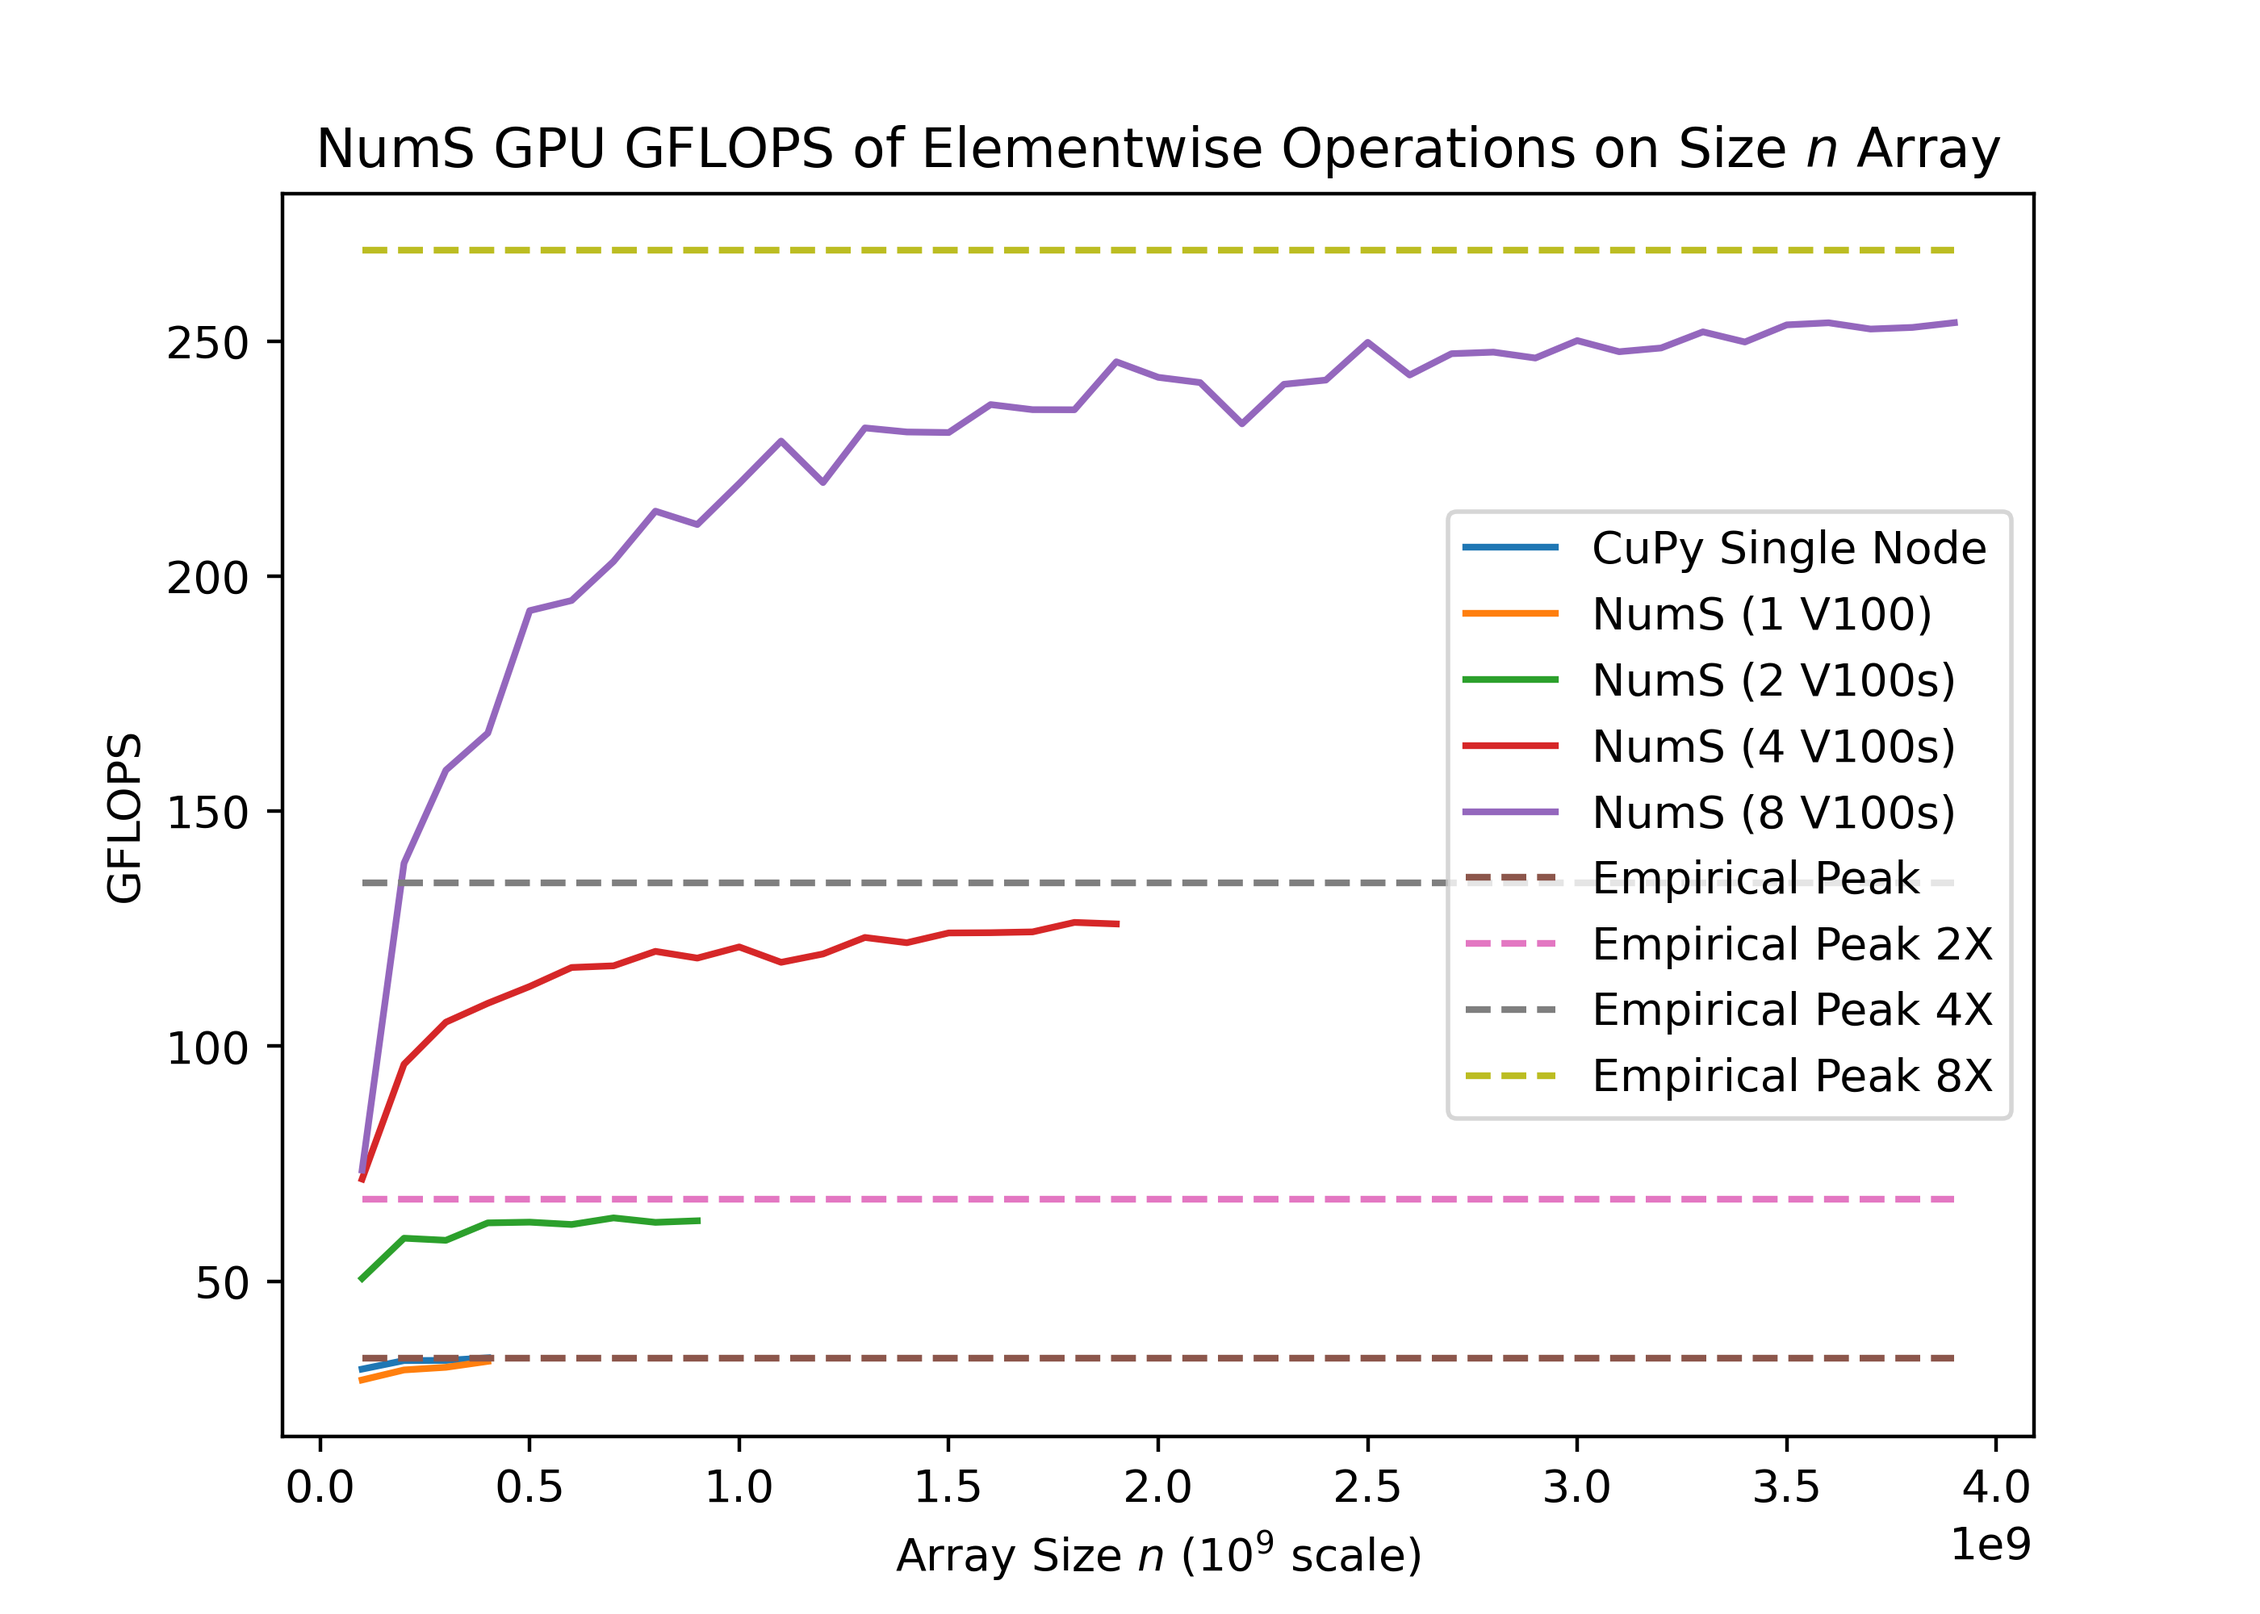
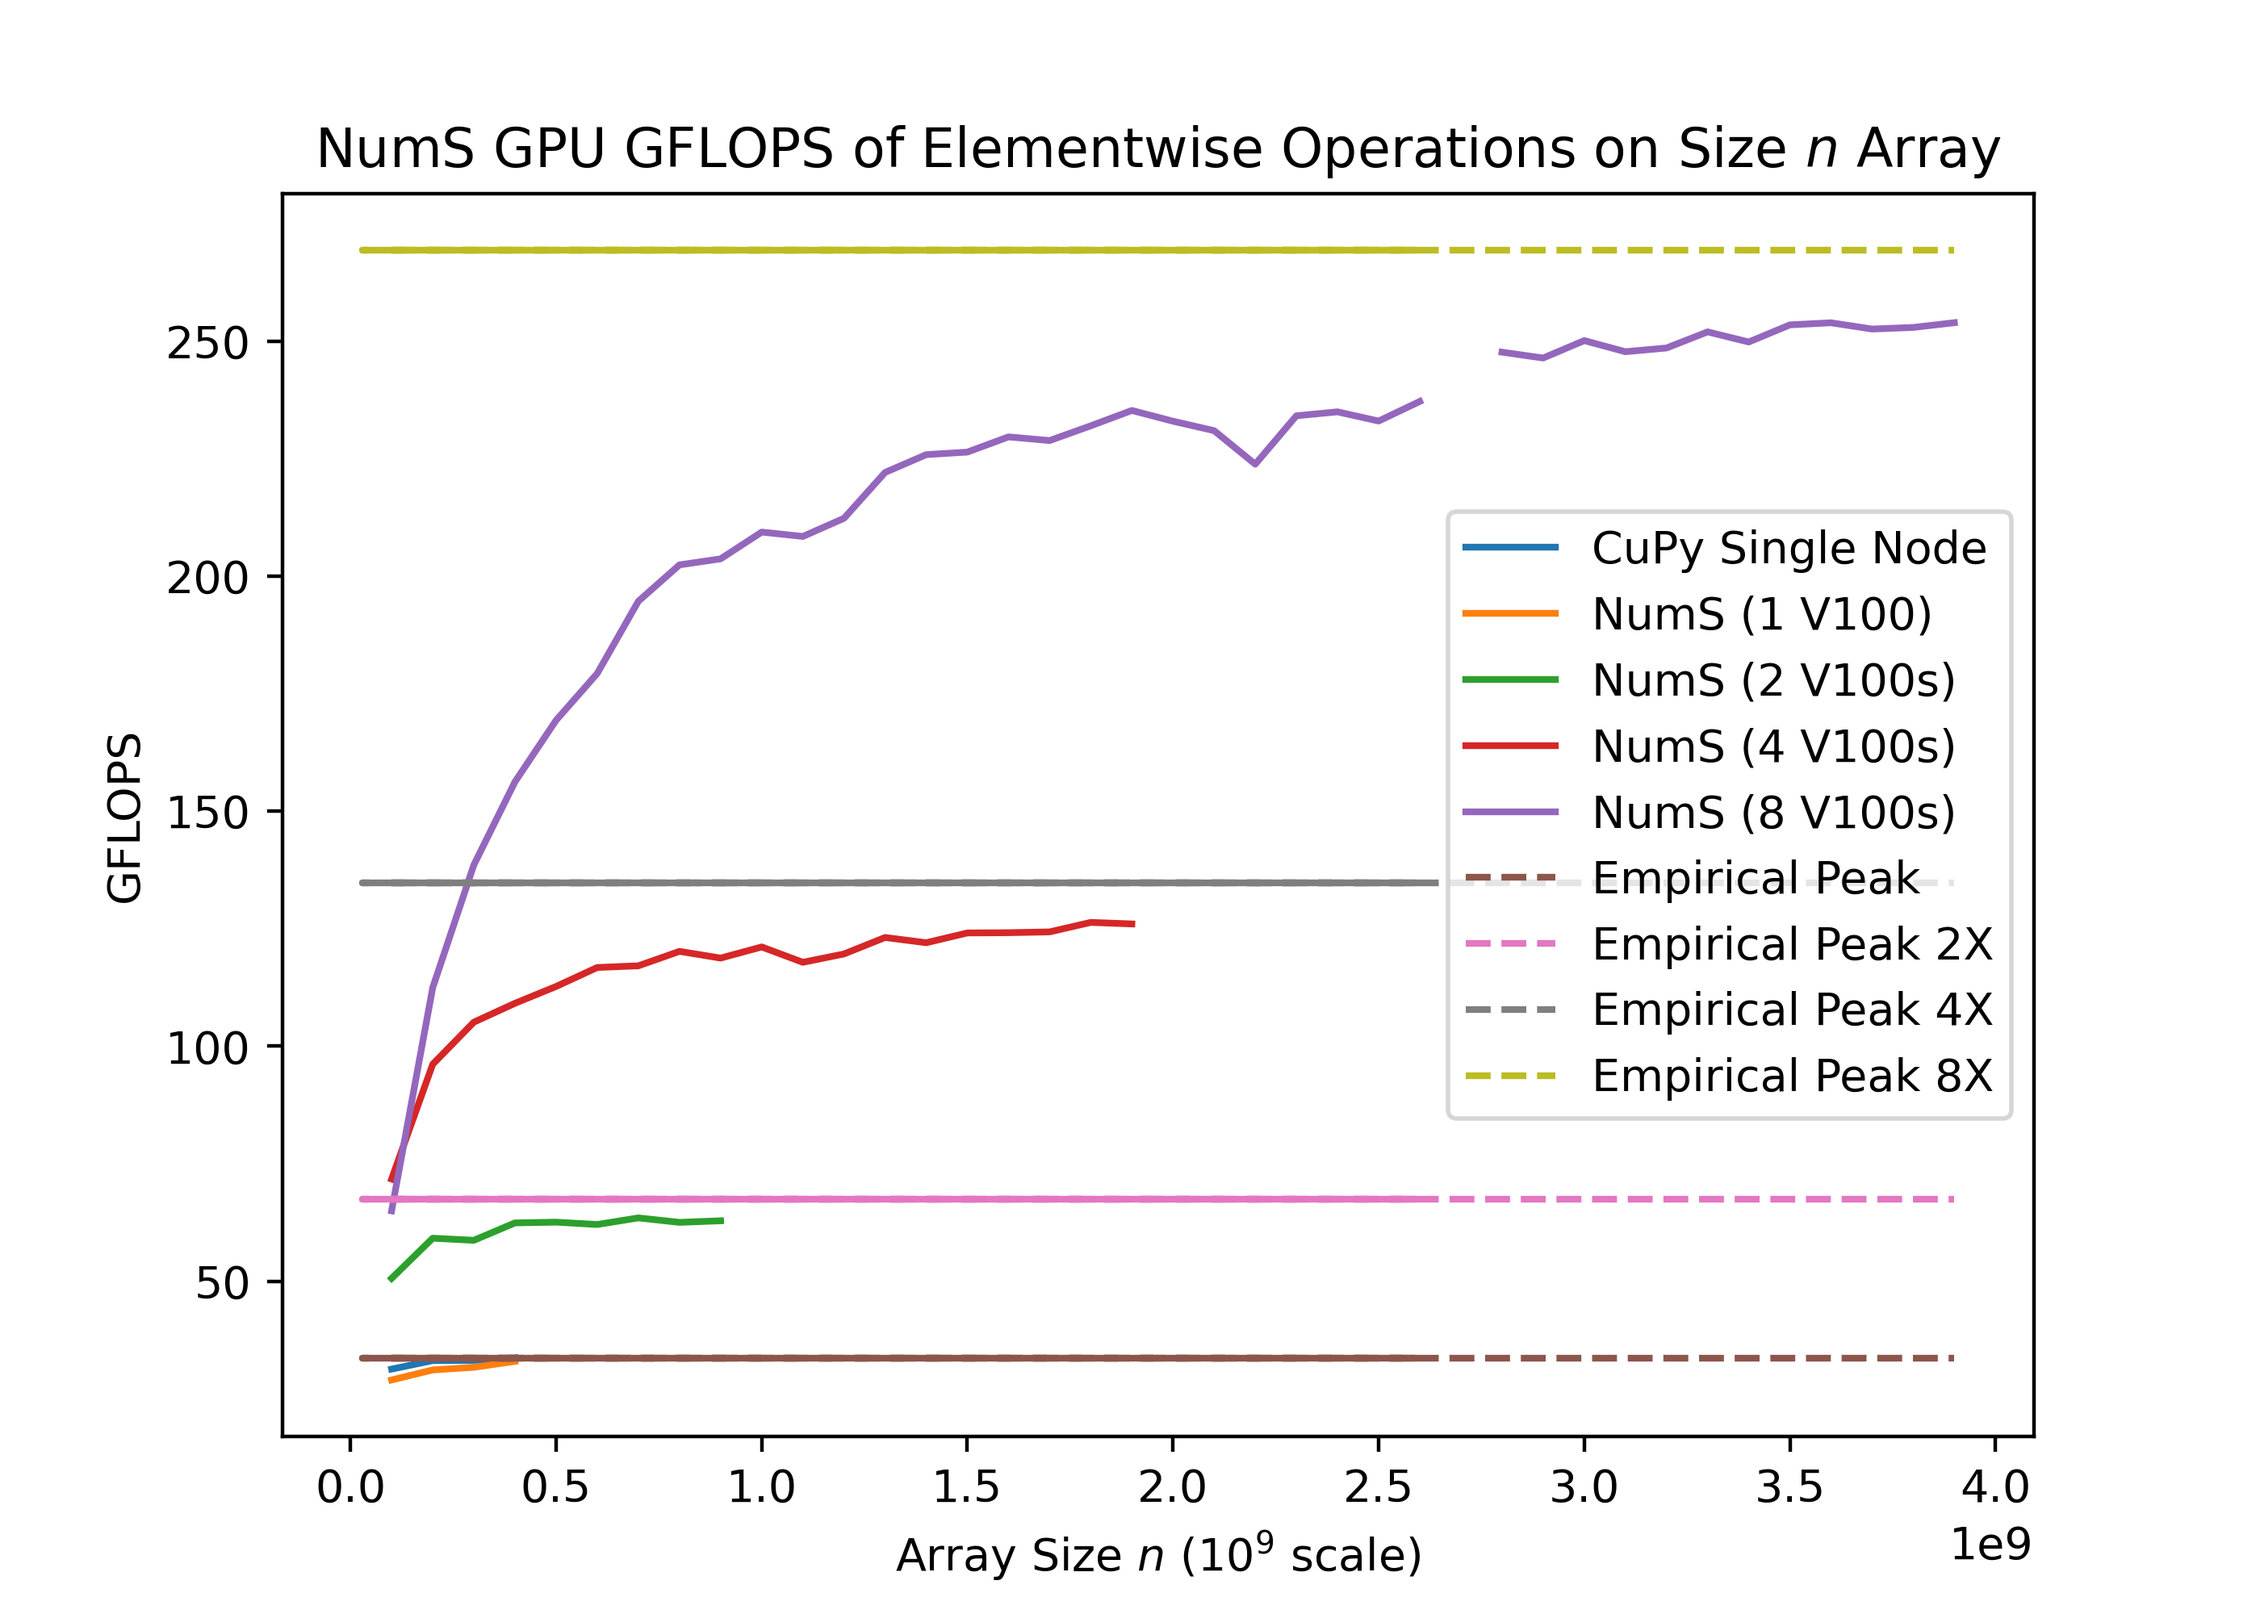
update

diff --git a/plot.py b/plot.py
@@ -58,6 +58,11 @@ if __name__ == "__main__":
 
     print(EMPIRICAL_ELEMENTWISE / GIGA)
 
+    print(df_nums_1["flops"].max() / (EMPIRICAL_ELEMENTWISE * 1))
+    print(df_nums_2["flops"].max() / (EMPIRICAL_ELEMENTWISE * 2))
+    print(df_nums_4["flops"].max() / (EMPIRICAL_ELEMENTWISE * 4))
+    print(df_nums_8["flops"].max() / (EMPIRICAL_ELEMENTWISE * 8))
+
     df_cupy_mm = plotter(is_nums=False, mode="matmul", dtype="float64", num_gpus=1)
 
     df_nums_mm_1 = plotter(is_nums=True, mode="matmul", dtype="float64", num_gpus=1)

diff --git a/bench.py b/bench.py
@@ -23,8 +23,7 @@ os.environ["CUPY_ACCELERATORS"] = "cub,cutensor"
 ### GLOBAL VARIABLES
 MEMORY = 16e9  # IN GIGABYTES
 NODES = int(
-    8
-    # os.popen("nvidia-smi --query-gpu=name --format=csv,noheader | wc -l").read()
+    os.popen("nvidia-smi --query-gpu=name --format=csv,noheader | wc -l").read()
 )
 TOTAL_MEMORY = NODES * MEMORY
 THEORETICAL_PEAK_64 = 7.8 * 10**12
